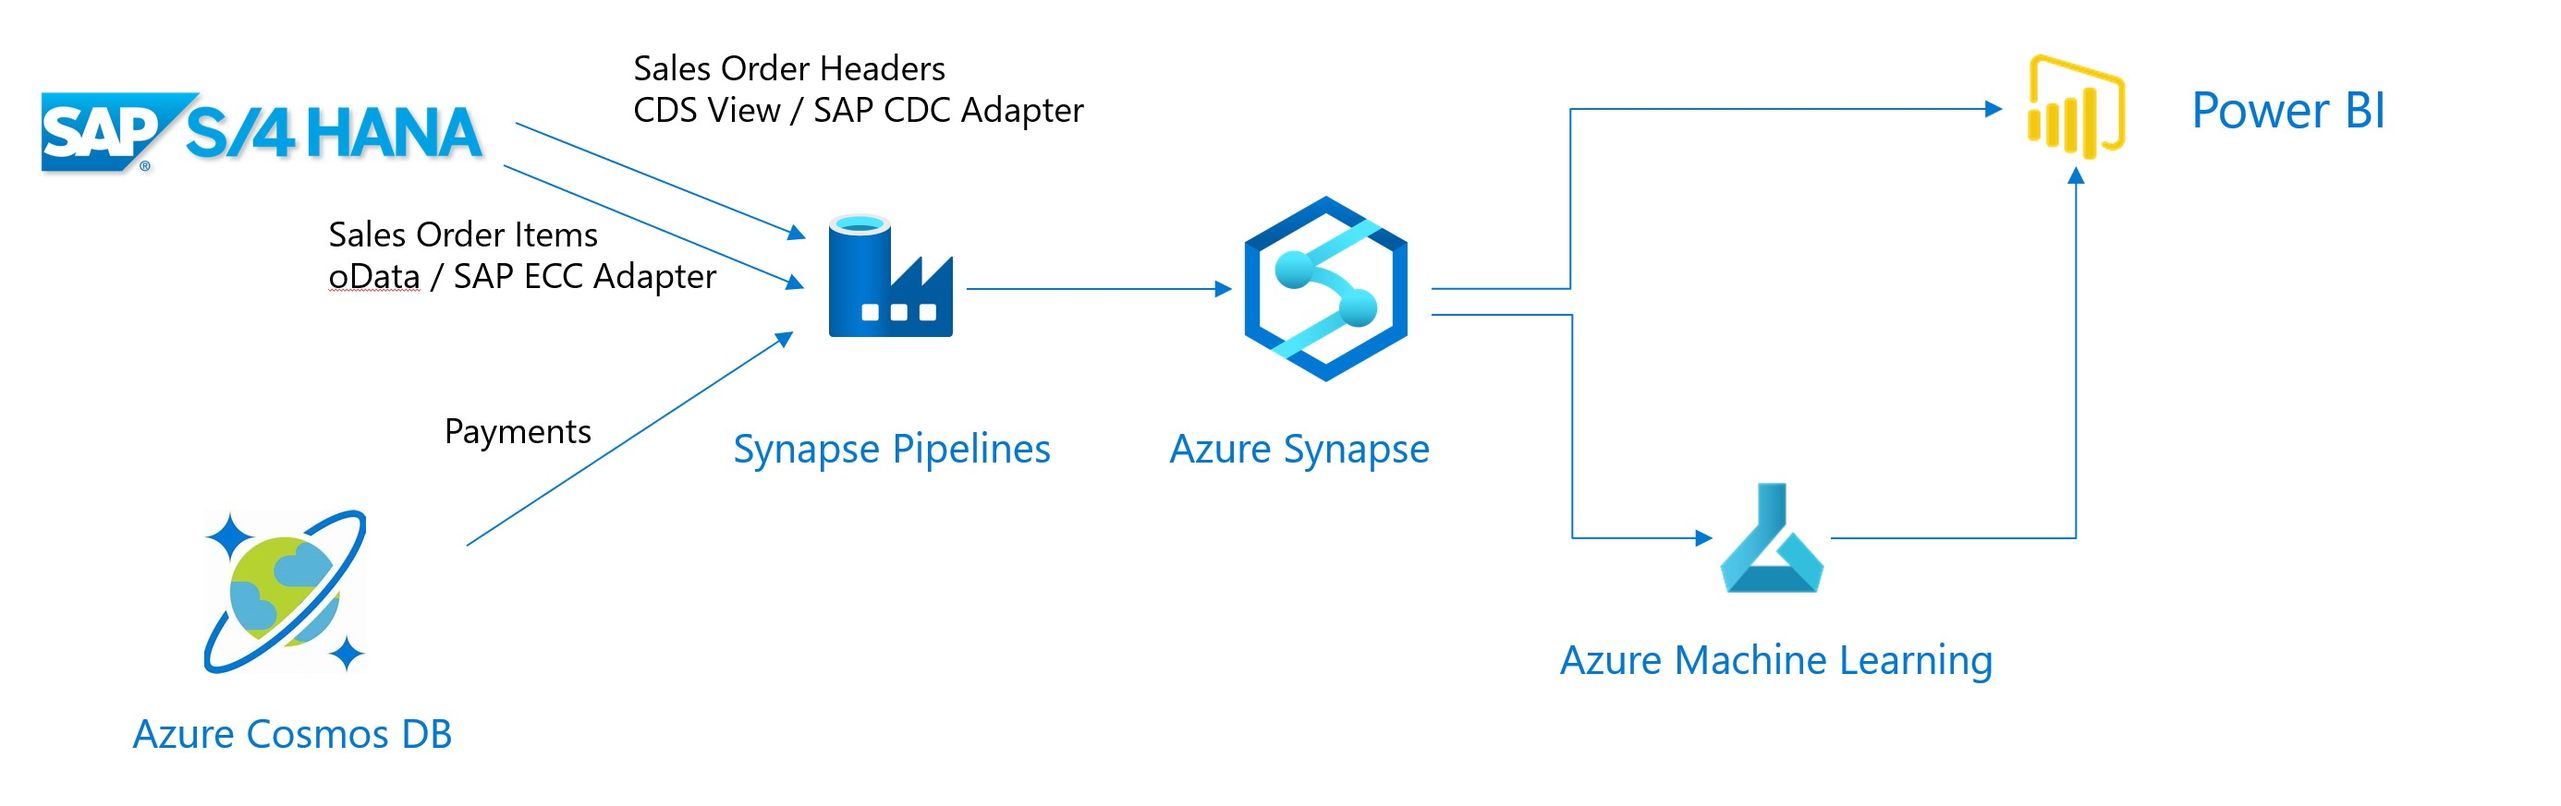
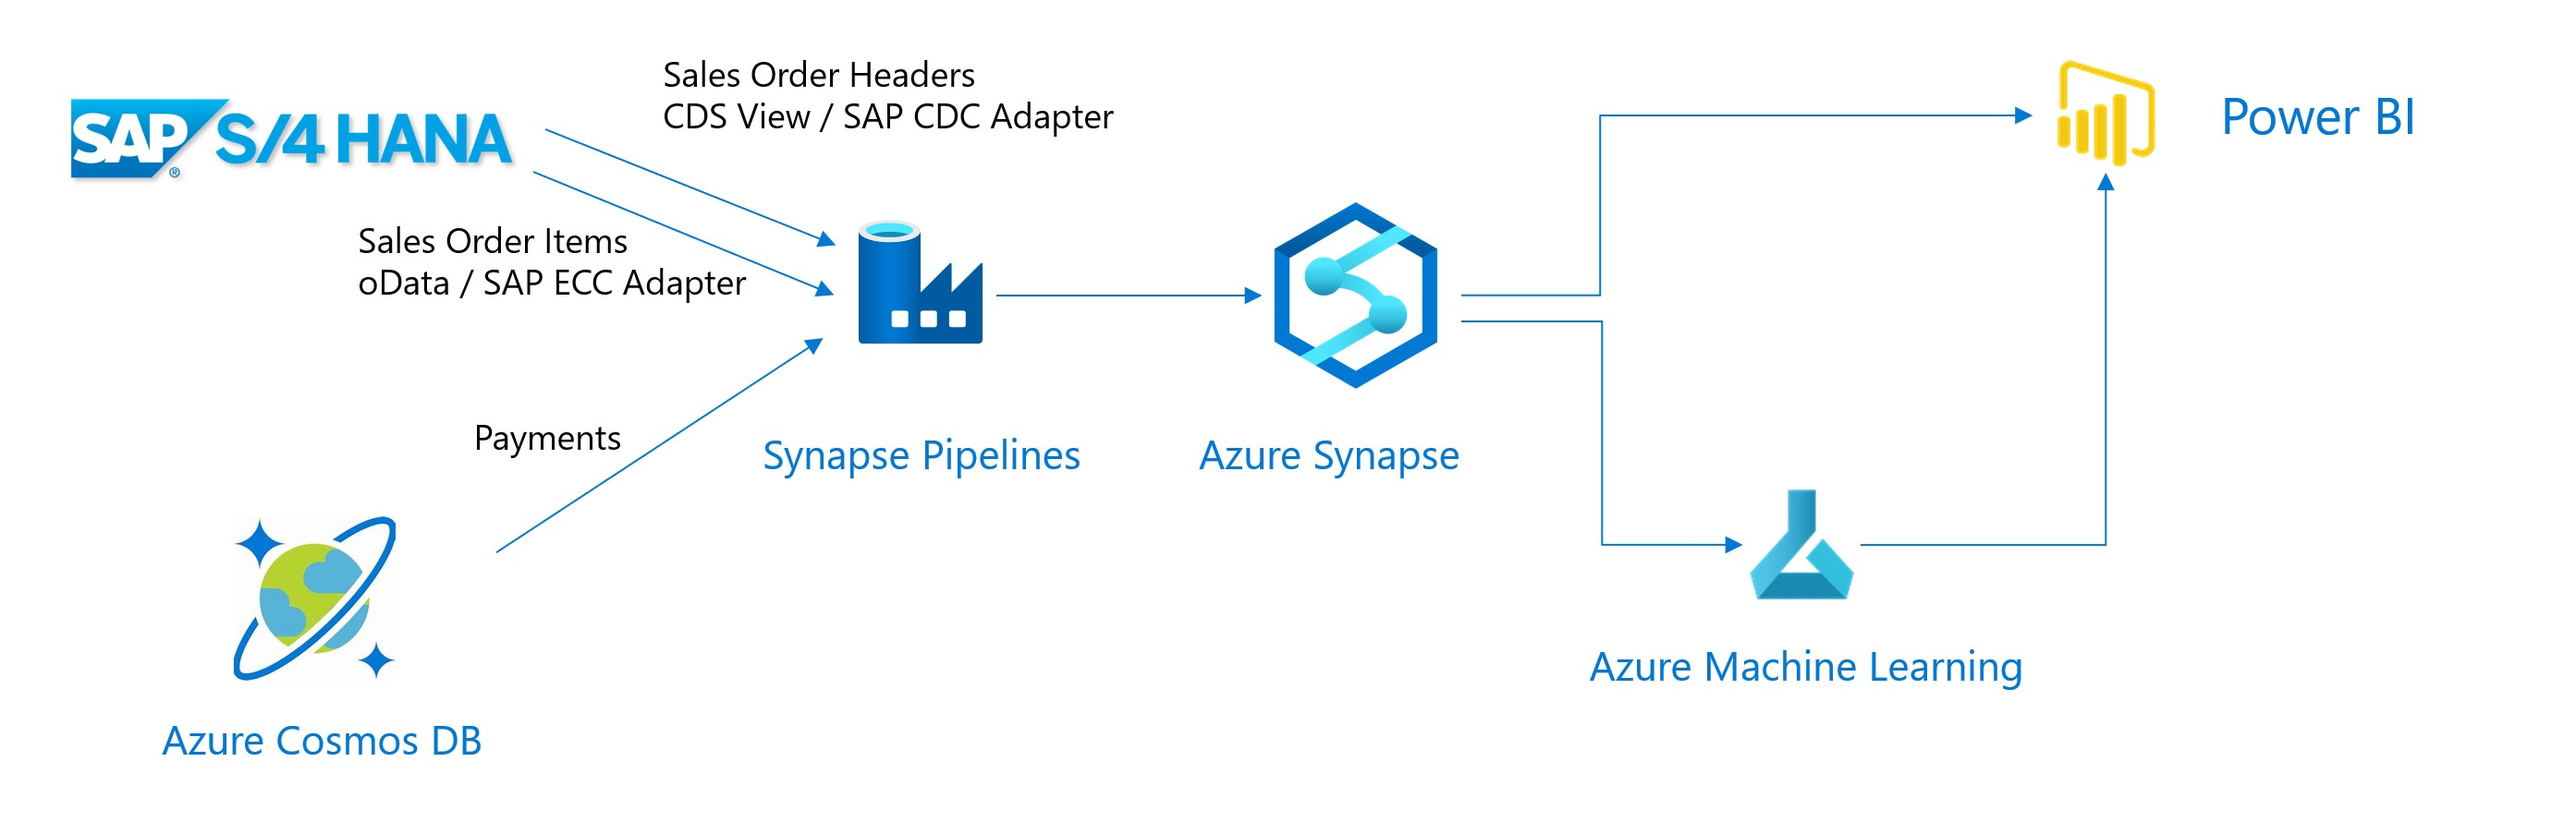
Updated Pictures to CDC Adapter

diff --git a/ExtractSalesOrderHeadersUsingTableAdapter.md b/ExtractSalesOrderHeadersUsingTableAdapter.md
@@ -61,9 +61,9 @@ CREATE TABLE SalesOrderHeaders(
 )
 ```
 
-# Implement the Sales Order Header Pipeline
+# Implement the Sales Order Header Pipeline using the SAP Table Adapter
 
-<img src="images/synapsews/SalesOrderHeaderPipeline.jpg">
+<img src="images/synapsews/SalesOrderHeaderPipelineTableAdapter.jpg">
 
 The sales order headers are extracted from SAP using the SAP Table Adapter which uses an RFC.
 The CDS View to extract from is : `ZBD_ISALESDOC_E`.
